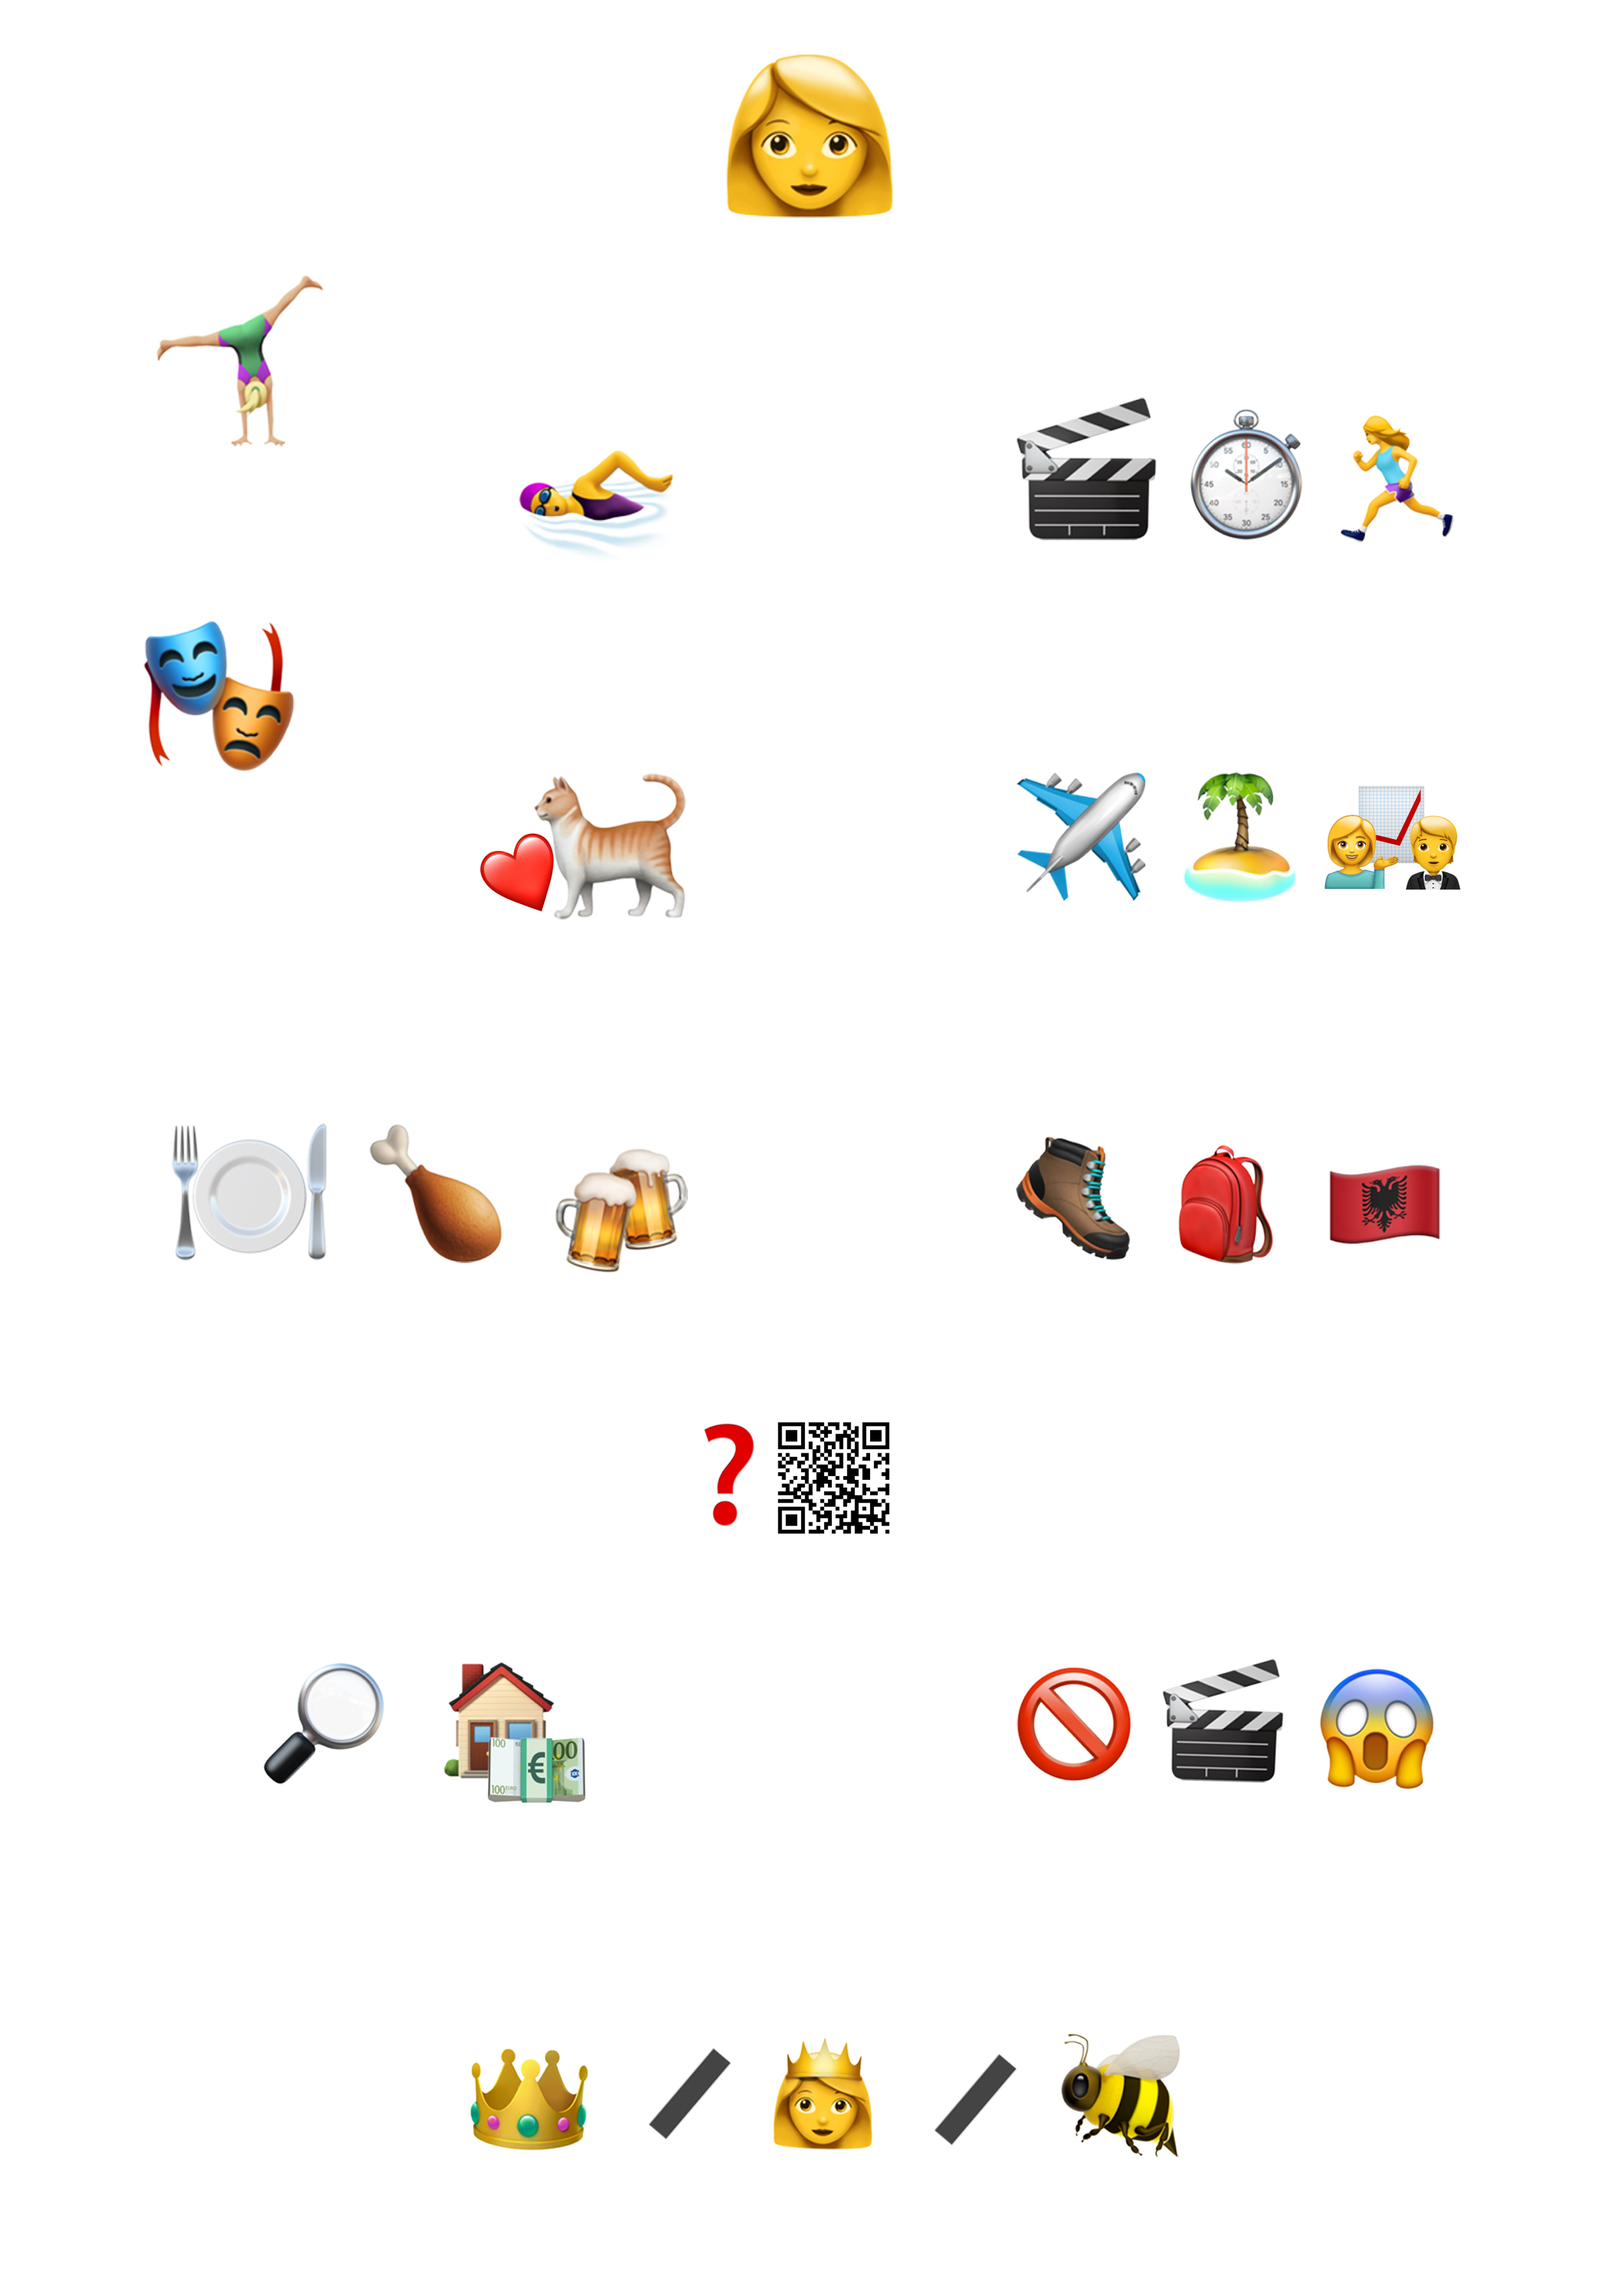
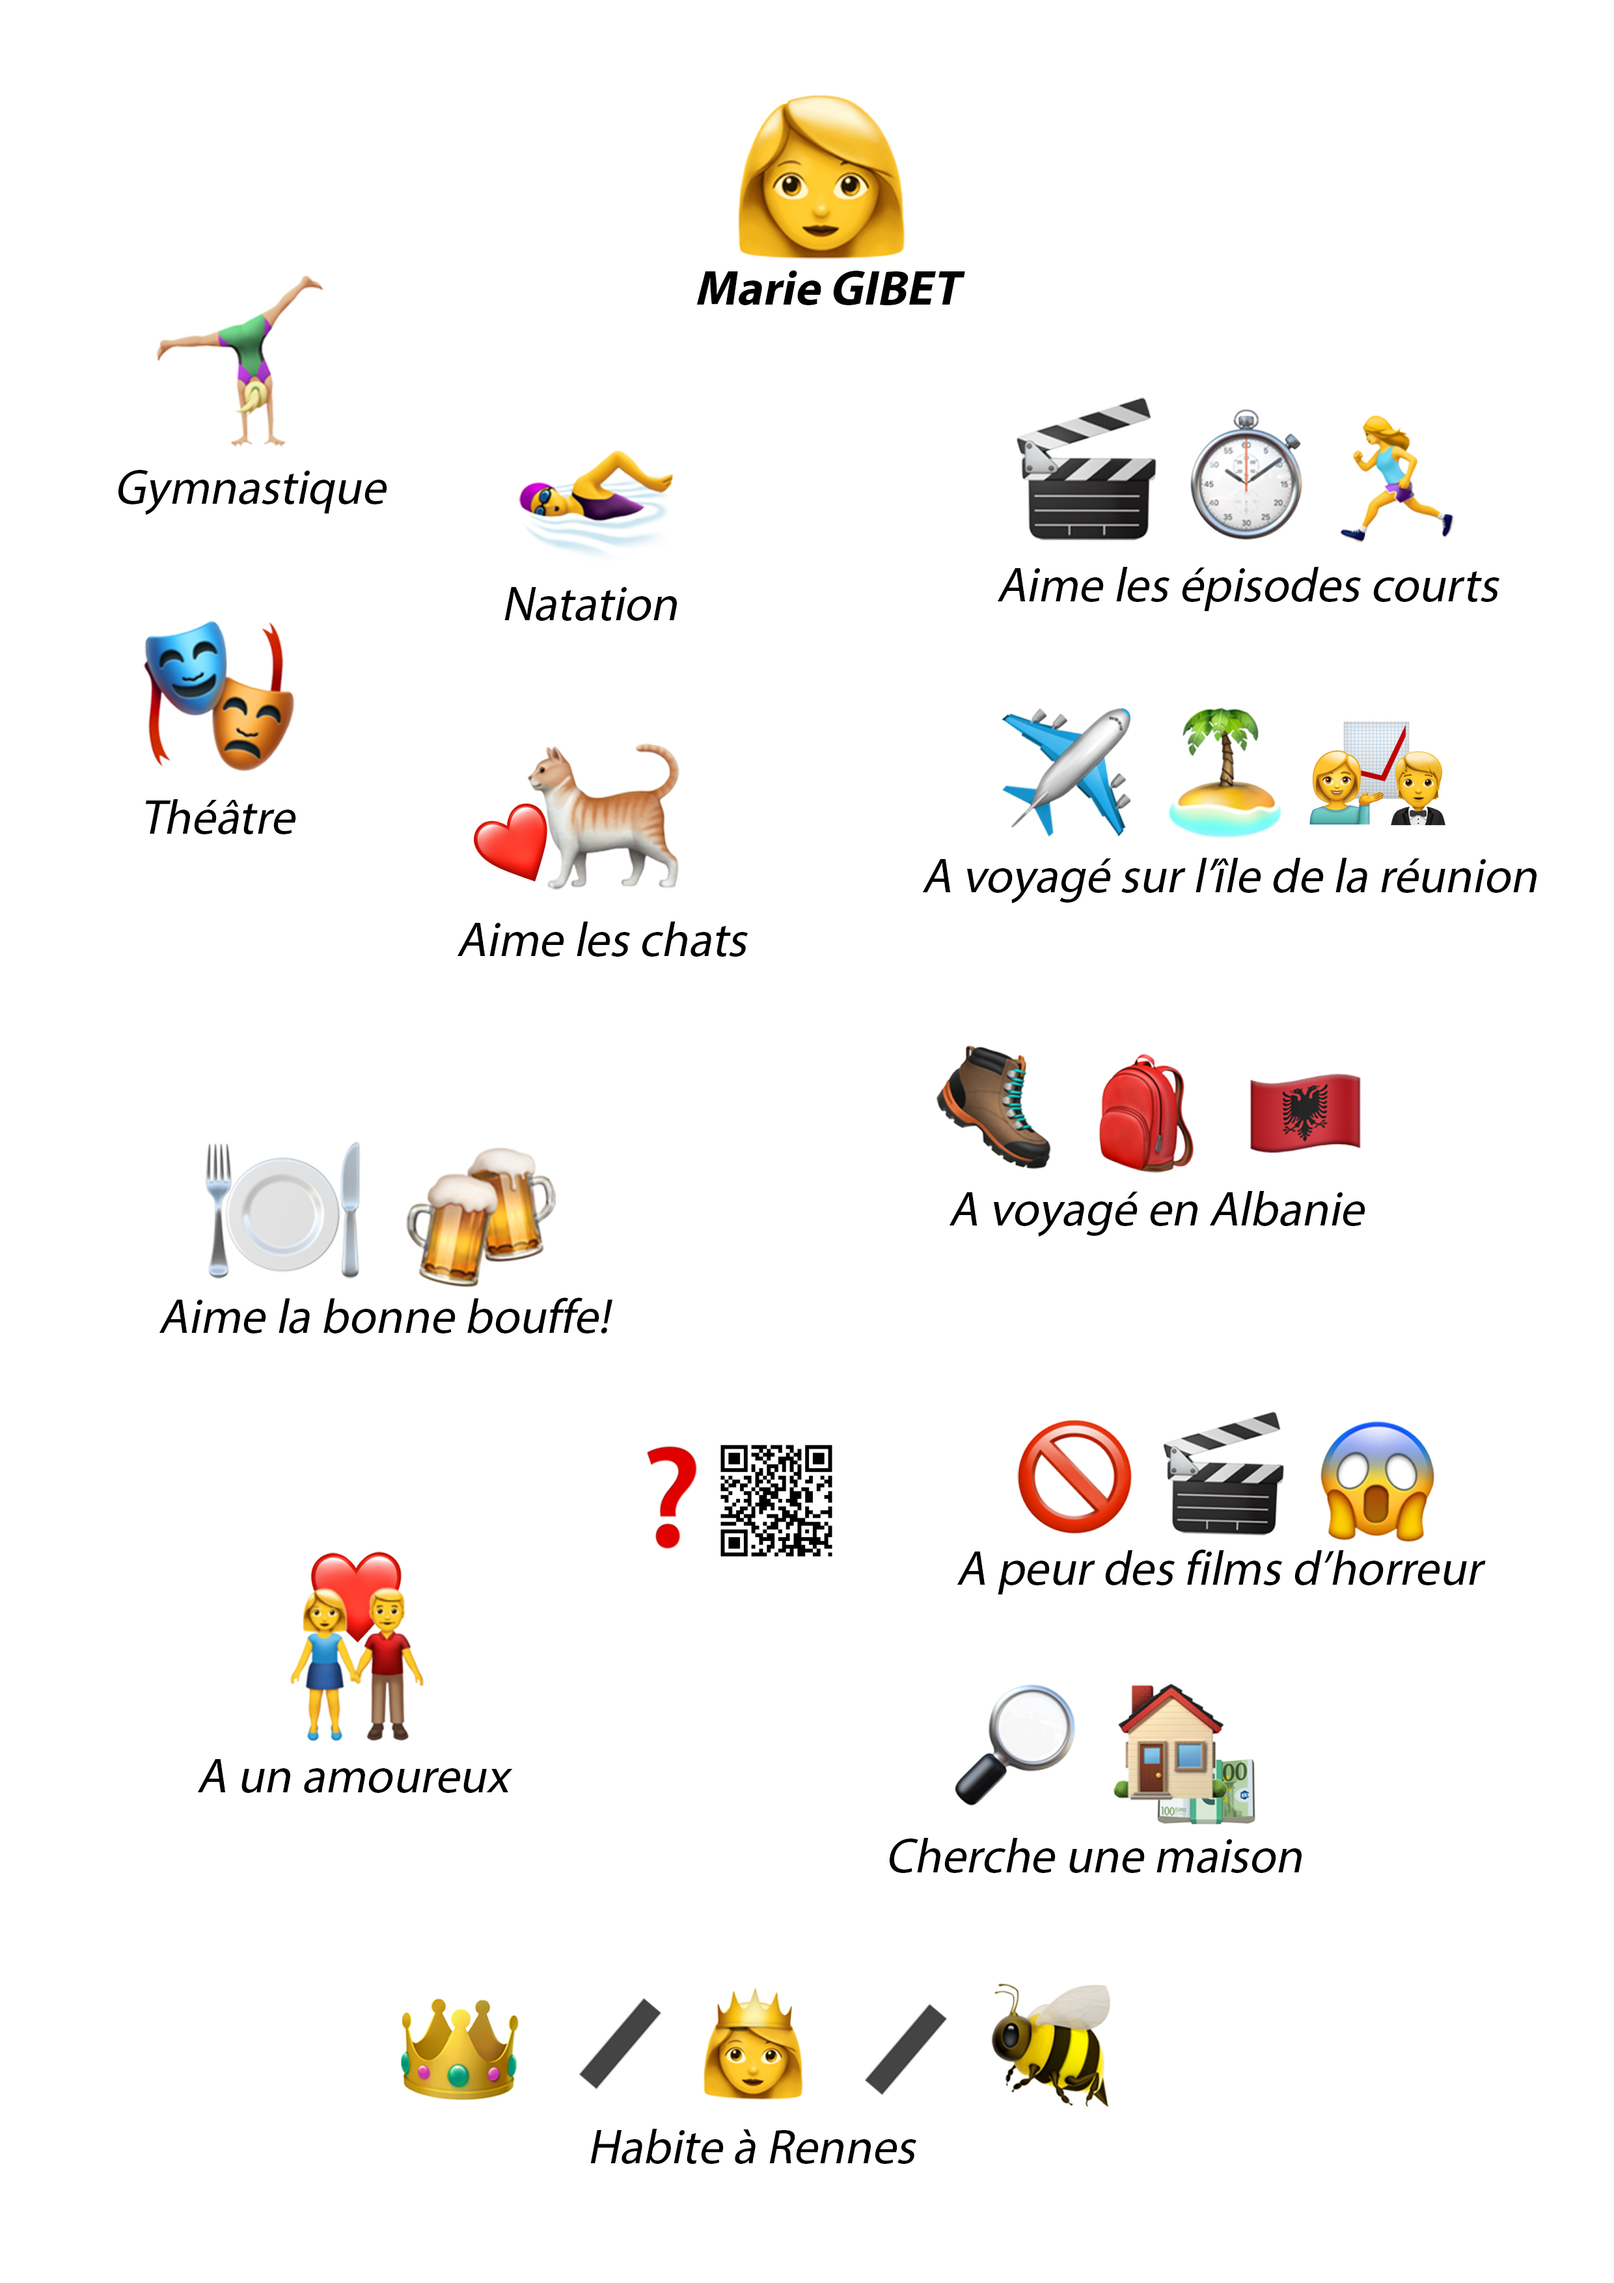
Change seminaire jpg

diff --git a/seminaire/index.html b/seminaire/index.html
@@ -4,26 +4,8 @@
     <meta charset="UTF-8">
     <meta http-equiv="X-UA-Compatible" content="IE=edge">
     <meta name="viewport" content="width=device-width, initial-scale=1.0">
-    <title>Document</title>
 
-    <div class="content">
-        <img src="./seminaire.jpg" width="100%">
-
-        <div class="text">
-            <span style="top: 10%; left: 39%">Marie GIBET</span>
-            <span style="top: 20%; left: 6%">Gymnastique</span>
-            <span style="top: 35%; left: 8%">Théatre</span>
-            <span style="top: 40%; left: 25%">Aime les chats</span>
-            <span style="top: 25%; left: 30%">Natation</span>
-            <span style="top: 25%; left: 56%">Aime les épisodes courts</span>
-            <span style="top: 40%; left: 58%">A voyagé sur l'île de la réunion</span>
-            <span style="top: 56%; left: 9%">Aime la bonne bouffe</span>
-            <span style="top: 56%; left: 50%">Est allé en albanie avec son sac à dos</span>
-            <span style="top: 79%; left: 9%">Cherche une maison</span>
-            <span style="top: 79%; left: 56%">A peur des films d'horreur</span>
-            <span style="top: 95%; left: 38%">Habite à Renne</span>
-        </div>
-    </div>
+    <img src="./seminaire.jpg" width="100%">
 </head>
 <body>
     
@@ -31,21 +13,7 @@
 </html>
 
 <style>
-    .content{
-        position: relative;
-        width: 100%;
-    }
-
-    .content .text{
-        position: absolute;
-        top: 0px;
-        left: 0px;
-        width: 100%;
-        height: 100%;
-    }
-
-    .content .text span{
-        position: absolute;
-        text-align: center;
+    body{
+        margin: 0px;
     }
 </style>
